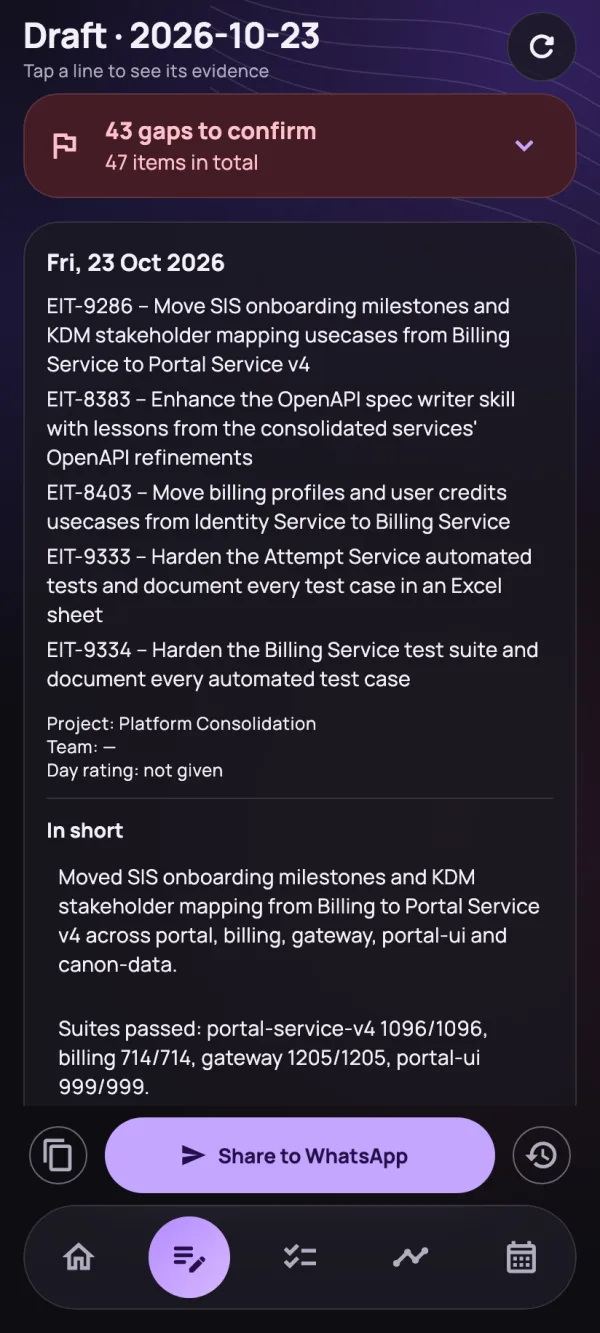
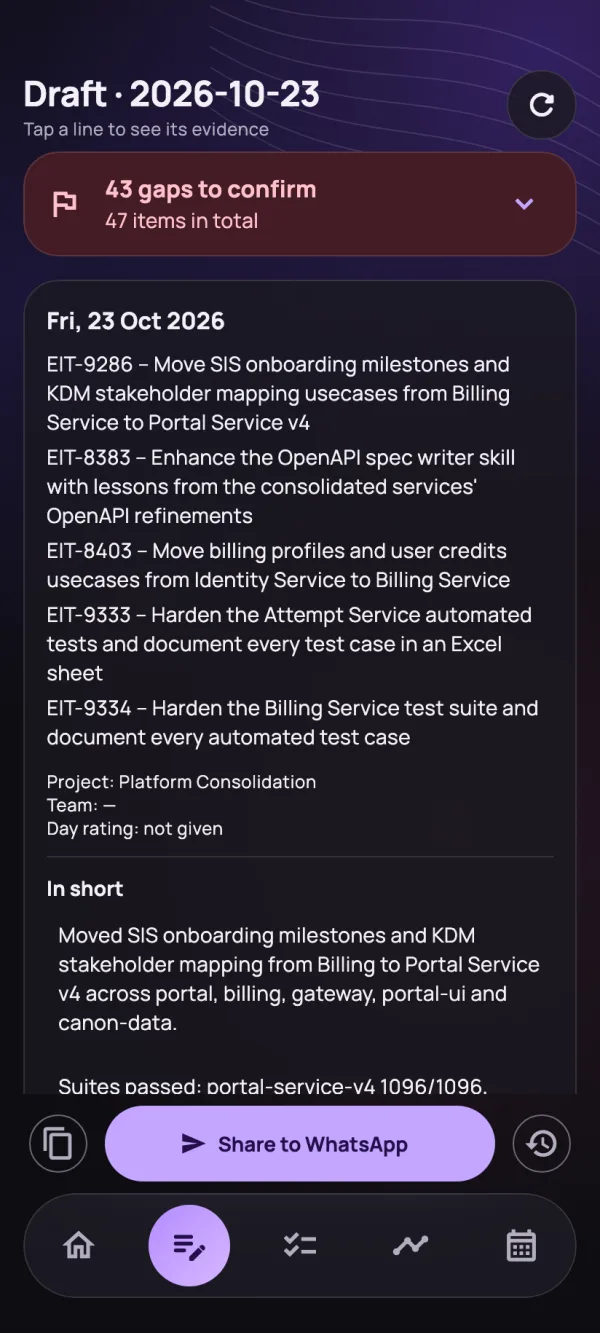
site: real screens laid out like a Pixel 9
The screens are rendered with a 40 dp status bar and a 16 dp gesture bar, so the
app sits inside them exactly as on a phone: nothing touches the edges or hides
under the camera. The frame shows a Pixel status bar around the punch hole.

Changed region(s): [[0.03, 0.0, 0.96, 0.9842], [0.84, 0.9227, 0.9, 0.9842], [0.09, 0.9227, 0.15, 0.9535]]

diff --git a/web/projects/site/src/styles.css b/web/projects/site/src/styles.css
@@ -41,7 +41,12 @@ html { scroll-behavior: smooth; scroll-padding-top: 88px; }
 .phone { position: relative; width: min(300px, 78vw); padding: 10px; border-radius: 42px; background: linear-gradient(160deg, #2c2933, #141218 60%, #1d1b22); box-shadow: 0 0 0 1.5px rgba(255, 255, 255, 0.10), inset 0 0 0 1px rgba(255, 255, 255, 0.06), 0 40px 90px rgba(0, 0, 0, 0.45); }
 .phone-screen { position: relative; aspect-ratio: 412 / 915; border-radius: 32px; overflow: hidden; background: #0e0d12; }
 .phone-screen img { display: block; width: 100%; height: 100%; object-fit: cover; }
-.phone-camera { position: absolute; z-index: 2; top: 10px; left: 50%; width: 13px; height: 13px; transform: translateX(-50%); border-radius: 50%; background: radial-gradient(circle at 35% 35%, #2b2f3a 0 25%, #050507 55%); box-shadow: 0 0 0 1.5px rgba(0, 0, 0, 0.55); }
+.phone-camera { position: absolute; z-index: 2; top: calc(100% * 20 / 915 - 6.5px); left: 50%; width: 13px; height: 13px; transform: translateX(-50%); border-radius: 50%; background: radial-gradient(circle at 35% 35%, #2b2f3a 0 25%, #050507 55%); box-shadow: 0 0 0 1.5px rgba(0, 0, 0, 0.55); }
+
+/* A Pixel status bar in the 40 dp the app leaves free at the top (the screens are 412 × 915 dp). */
+.phone-status { position: absolute; z-index: 1; inset: 0 0 auto; height: calc(100% * 40 / 915); display: flex; align-items: center; justify-content: space-between; padding: 0 8%; color: rgba(255, 255, 255, 0.88); font: 600 9.5px/1 var(--wd-font); letter-spacing: 0.02em; }
+.phone-status-icons { display: flex; gap: 4px; align-items: center; }
+.phone-status-icons svg { height: 8px; width: auto; fill: currentColor; }
 
 /* Sections */
 .section { padding: 110px 0; }

diff --git a/app/test/screens/screens_test.dart b/app/test/screens/screens_test.dart
@@ -14,6 +14,10 @@ import '../fakes/fakes.dart';
 /// ```
 const _enabled = bool.fromEnvironment('SCREENS');
 
+/// Logical pixels of a Pixel 9's status bar and gesture bar.
+const double _statusBar = 40;
+const double _gestureBar = 16;
+
 Future<void> _loadFont(String family, List<String> files) async {
   final loader = FontLoader(family);
   for (final file in files) {
@@ -43,6 +47,11 @@ void main() {
       // Given: the demo data, dark theme and the app's real fonts.
       // When: the screen opens and its animations finish.
       // Then: it is saved as build/screens/<name>.png for `make screens` (skipped in normal runs).
+      // Like a Pixel: a status bar (with the camera) above the app and the gesture bar below,
+      // so the app lays itself out inside them exactly as on a phone.
+      tester.view
+        ..padding = const FakeViewPadding(top: _statusBar * 2, bottom: _gestureBar * 2)
+        ..viewPadding = const FakeViewPadding(top: _statusBar * 2, bottom: _gestureBar * 2);
       await pumpApp(tester, location: location, brightness: Brightness.dark);
       await tester.pump(const Duration(seconds: 2));
       await expectLater(find.byType(MaterialApp), matchesGoldenFile('../../build/screens/$name.png'));

diff --git a/web/projects/site/src/app/phone.ts b/web/projects/site/src/app/phone.ts
@@ -20,6 +20,14 @@ const DESCRIPTIONS: Record<Screen, string> = {
     <div class="phone">
       <div class="phone-screen">
         <span class="phone-camera" aria-hidden="true"></span>
+        <div class="phone-status" aria-hidden="true">
+          <span>18:00</span>
+          <span class="phone-status-icons">
+            <svg viewBox="0 0 16 12"><path d="M1 11h2V8H1zm4 0h2V6H5zm4 0h2V3H9zm4 0h2V0h-2z" /></svg>
+            <svg viewBox="0 0 16 12"><path d="M8 11.5 15.5 3A11.5 11.5 0 0 0 .5 3z" /></svg>
+            <svg viewBox="0 0 10 16"><path d="M3 0h4v1.5h2.5V16H.5V1.5H3z" /></svg>
+          </span>
+        </div>
         <img [src]="src()" [alt]="description()" width="412" height="915" decoding="async"
              [attr.loading]="eager() ? 'eager' : 'lazy'" [attr.fetchpriority]="eager() ? 'high' : null" />
       </div>

diff --git a/docs/test-cases.md b/docs/test-cases.md
@@ -109,7 +109,7 @@ Total: 364 test cases (parametrized tests count once).
 | TC-APP-148 | the app keeps the reminders scheduled and skips a day marked sent | Friday 18:00 in Asia/Kolkata, send by 21:00 (the seeded settings), today's digest a draft. | the app opens, then today's digest is marked sent. | Fri 19:30 and the next weekdays are scheduled in the account's time zone; after marking sent, Friday's reminder is gone and Monday 19:30 comes first. | `app/test/widget/digest_time_test.dart:25` |
 | TC-APP-149 | choosing the send time sets the draft time and the reminders can be turned off | Settings, send by 21:00. | 18:00 is picked, then "Remind me on this phone" is switched off. | the cloud gets send_deadline 18:00 and nudge_time 16:00; the texts follow; no reminders remain. | `app/test/widget/digest_time_test.dart:44` |
 | TC-APP-150 | template sections can be added and deleted (with undo) | an active template with Done today and Blockers. | "Customer impact" is added, then Blockers is deleted, then the delete is undone. | each change saves a new active template: a custom key for the new section, Blockers gone, then back; earlier fields of the template are kept. | `app/test/widget/digest_time_test.dart:71` |
-| TC-APP-151 | real screen for the website ($name) | the demo data, dark theme and the app's real fonts. | the screen opens and its animations finish. | it is saved as build/screens/<name>.png for `make screens` (skipped in normal runs). | `app/test/screens/screens_test.dart:42` |
+| TC-APP-151 | real screen for the website ($name) | the demo data, dark theme and the app's real fonts. | the screen opens and its animations finish. | it is saved as build/screens/<name>.png for `make screens` (skipped in normal runs). | `app/test/screens/screens_test.dart:46` |
 
 ## ATL
 
